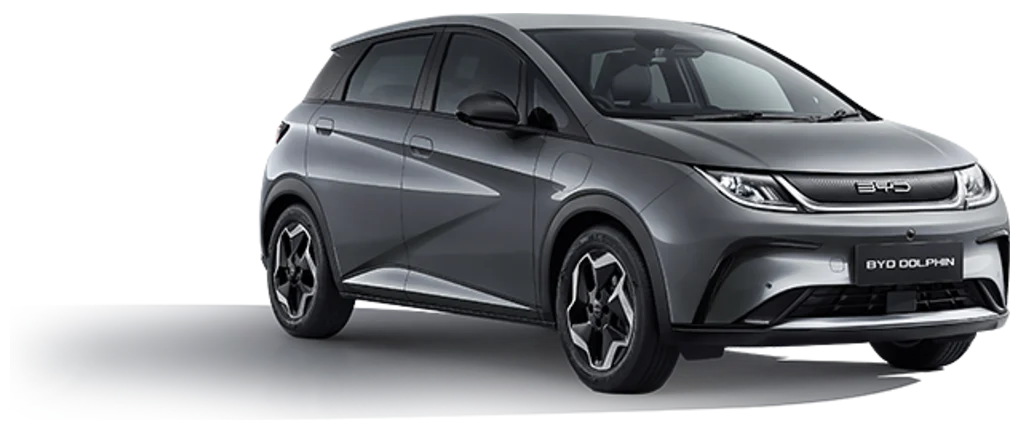
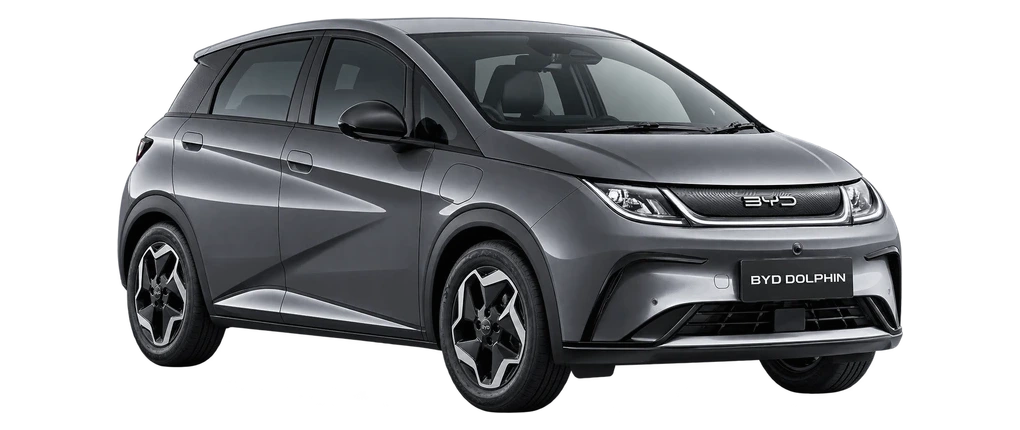
fix: update Dolphin artwork and Sealion 8 exterior video

diff --git a/content/model-videos.ts b/content/model-videos.ts
@@ -56,7 +56,7 @@ export const MODEL_VIDEO_LINKS: Readonly<Record<string, Readonly<Record<ClipKey,
   },
   "sealion-8": {
     "exterior-day": "https://firebasestorage.googleapis.com/v0/b/byd-ht-project.firebasestorage.app/o/byd-cars%2Fsealion%208%2Fout%2FDay_Sealion8.mp4?alt=media&token=ad90874d-aa90-4b84-95a2-1630ef13ac4e",
-    "exterior-night": "https://firebasestorage.googleapis.com/v0/b/byd-ht-project.firebasestorage.app/o/byd-cars%2Fsealion%208%2Fout%2FNight_Sealion8.mp4?alt=media&token=19c778c0-bb3f-4032-b0cc-3e3d05b4151b",
+    "exterior-night": "https://firebasestorage.googleapis.com/v0/b/byd-ht-project.firebasestorage.app/o/byd-cars%2Fsealion%208%2Fout%2FNight_Sealion8_Exterior_New.mp4?alt=media&token=166ab659-fee6-4b60-95b2-e26a019559c9",
     "interior-day": "https://firebasestorage.googleapis.com/v0/b/byd-ht-project.firebasestorage.app/o/byd-cars%2Fsealion%208%2Fin%2FDay_Sealion8_Interior.mp4?alt=media&token=74c56437-ff4a-4325-b419-0b6a2083cfce",
     "interior-night": "https://firebasestorage.googleapis.com/v0/b/byd-ht-project.firebasestorage.app/o/byd-cars%2Fsealion%208%2Fin%2FNight_Sealion8_Interior.mp4?alt=media&token=6d6851b1-f93d-40dc-843b-7d7366ae1a83",
   },
